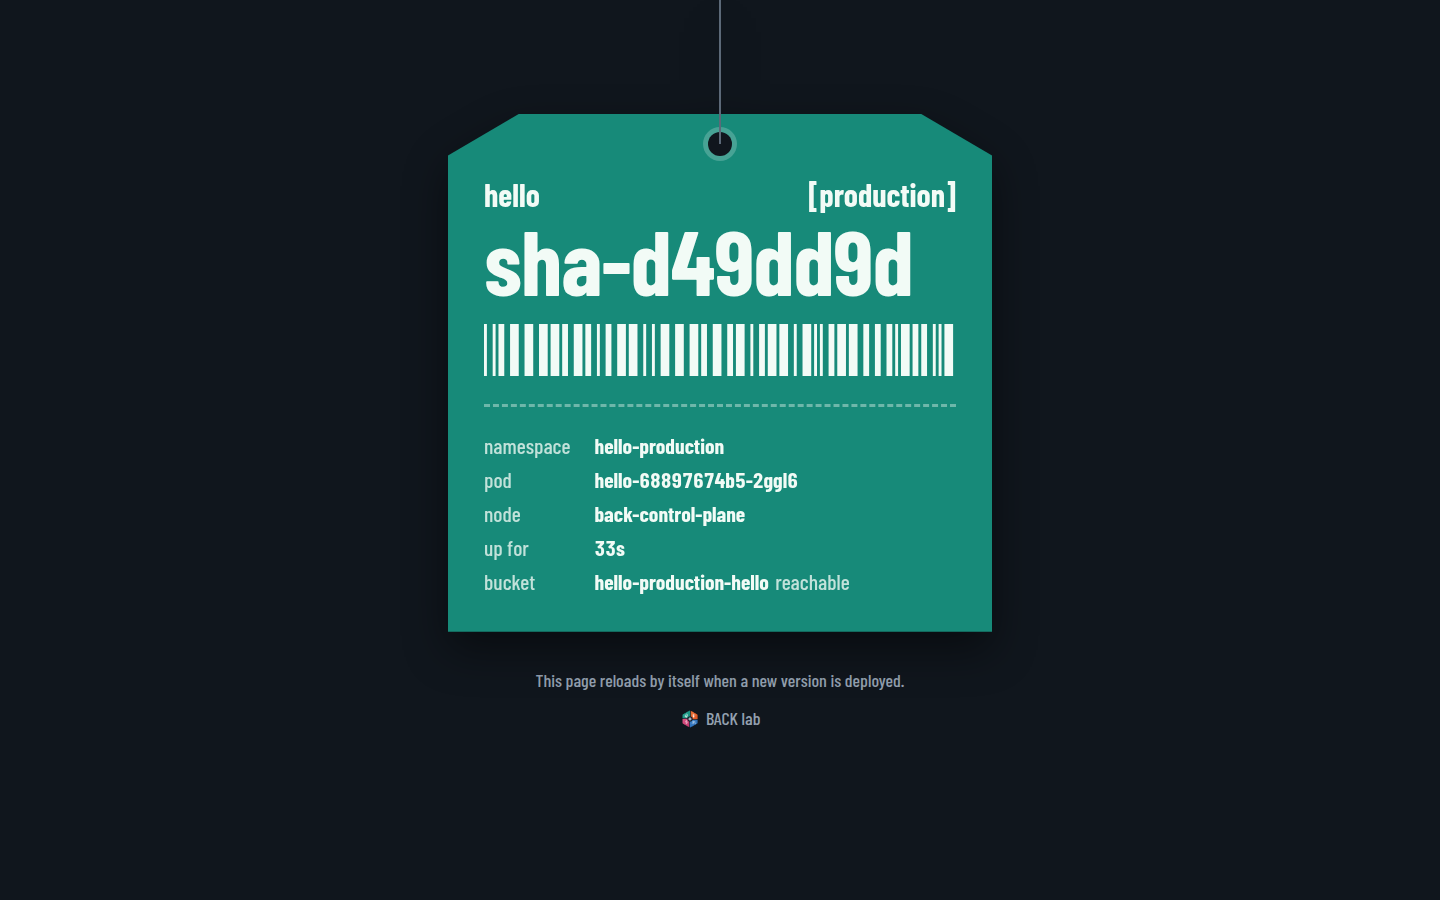
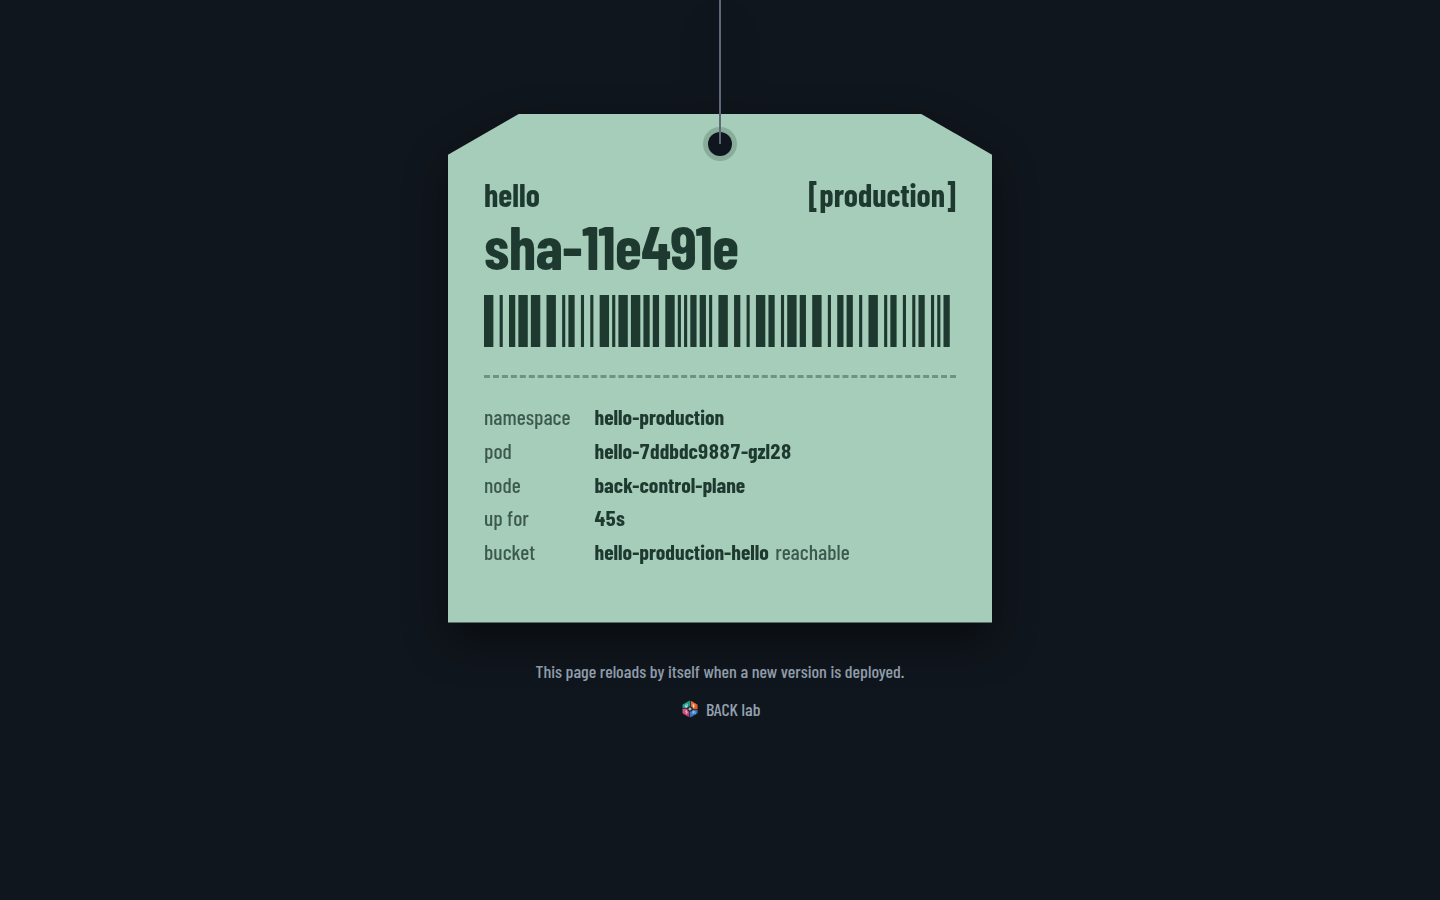
docs: refresh the hello screenshots with the paper colours

Changed region(s): [[0.3125, 0.1244, 0.6875, 0.8089]]

diff --git a/README.md b/README.md
@@ -26,7 +26,7 @@ Two perspectives on the same cluster, each with an identity to see it through: `
 [hello](https://github.com/hvpaiva/back-hello) is a small service that displays its own version. Its repository holds the code and a short description of what it needs from the platform: name, team, port, size, whether it's public, and a bucket. A push to its `staging` branch builds an image and deploys it to staging. A pull request from `staging` to `main` promotes that same image to production. Pull requests are checked against the platform's rules before the merge. The developer never touches the cluster, never writes a Kubernetes manifest or a Dockerfile, and never creates the bucket: the platform does, and hands the service its details. As `dev`, Argo CD shows only the services, and kubectl reads the team's namespaces without being able to change them.
 
 <p align="center">
-  <img src="docs/images/hello-staging.png" alt="hello in staging: an orange hang tag showing version sha-d49dd9d" width="45%">
+  <img src="docs/images/hello-staging.png" alt="hello in staging: an orange hang tag showing version sha-11e491e" width="45%">
   <img src="docs/images/hello-production.png" alt="hello in production: a green hang tag showing the same version" width="45%">
 </p>
 
